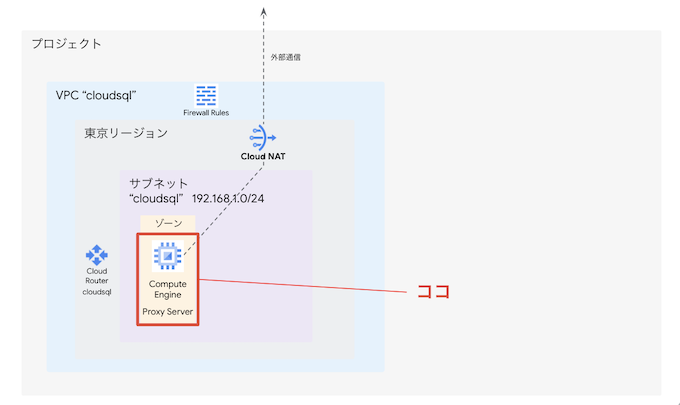
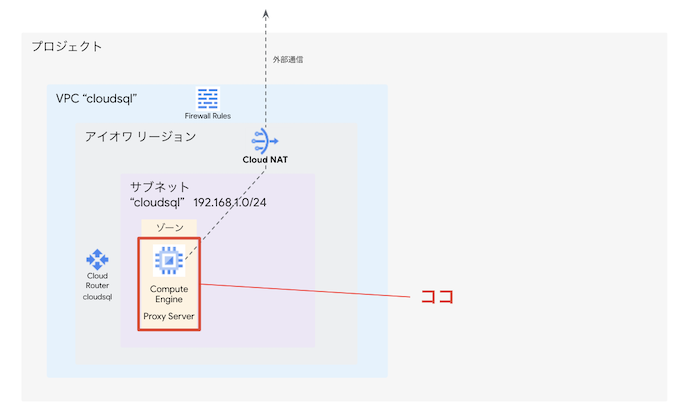
image ファイル差し替え、その他指摘事項対応

diff --git a/egg5-3/tutorial.md b/egg5-3/tutorial.md
@@ -47,14 +47,8 @@
 Cloud SQL インスタンスは gcloud CLI を使用して作成します。その前に gcloud CLI の設定を行います。
 以下のコマンドを Cloud Shell で実行し、プロジェクト ID を設定してください。
 
-```bash
-gcloud config set project {{project-id}}
-```
-
-続いて、環境変数 `GOOGLE_CLOUD_PROJECT` に、各自で利用しているプロジェクトの ID を格納しておきます。以下のコマンドを、Cloud Shell のターミナルで実行してください。
-
-```bash
-export GOOGLE_CLOUD_PROJECT=$(gcloud config list project --format "value(core.project)")
+```text
+gcloud config set project <あなたのプロジェクト ID>
 ```
 
 以下のコマンドで、正しく格納されているか確認してください。
@@ -186,6 +180,18 @@ Datastream → Cloud Storage → Cloud Pub/Sub という流れのパイプライ
 Cloud SQL にデータをインポートします。
 Git リポジトリに用意してある SQL ファイルを Cloud Storage 上にアップロードします。
 
+コマンドを実行するディレクトリに注意してください。
+テストアプリケーションのレポジトリのルートディレクトリにいることを念の為確認してください。
+```bash
+pwd
+```
+
+期待する戻り値は以下です。
+違う場合は適宜 cd コマンドで正しいディレクトリに移動してください。
+```terminal
+/home/<あなたのユーザー名>/cloudshell_open/egg-training-materials/egg5-3
+```
+
 次のコマンドで SQL ファイルの内容を確認できます。
 
 ```bash
@@ -272,6 +278,8 @@ SERVICE_ACCOUNT=$(gcloud iam service-accounts list --filter="displayName:Compute
  * BigQuery DataEditor: Dataflow Job の実行時の BigQuery テーブルへの書き込みに利用
  * BigQuery JobUser: Dataflow Job の実行時の BigQuery Job 実行に利用
 
+次のコマンドをコピーして、Cloud Shell で実行してください。
+
 ```
 for role in cloudsql.client logging.logWriter dataflow.worker datastream.viewer pubsub.editor pubsub.subscriber pubsub.viewer storage.objectViewer bigquery.dataEditor bigquery.jobUser
 do
@@ -311,6 +319,7 @@ gcloud compute routers nats create cloudsql \
 
 それでは、Cloud SQL Auth Proxy を実行する Compute Engine インスタンスを作成します。
 起動と同時に、スタートアップスクリプトとして `cloud_sql_proxy` を実行させます。 
+次のコマンドをコピーして、Cloud Shell で実行してください。
 
 ```
 gcloud compute instances create cloudsql-proxy \
@@ -469,7 +478,7 @@ gcloud compute instances describe cloudsql-proxy --zone us-central1-c --format="
 以下の内容で設定します。
 1. 接続プロファイルの名前：`gcs-cp`
 2. 接続プロファイル ID：`gcs-cp`
-3. リージョン：`us-central1 (アイオア)`
+3. リージョン：`us-central1 (アイオワ)`
 4. バケット名：`<GOOGLE_CLOUD_PROJECTと同名のバケット>` ※ 「参照」から選択
 5. 接続プロファイルのパス接頭辞：`/data`
 
@@ -577,6 +586,7 @@ BigQuery へのデータの連携は Dataflow Job で行います。
 Dataflow VM 間での通信を許可するファイアウォール ルールを作成します。このファイアウォール ルールは Dataflow Shuffle の通信に使います。
 
 Dataflow VM 用の、内向き通信の許可ルールを作成します。
+次のコマンドをコピーして、Cloud Shell で実行してください。
 
 ```
 gcloud compute firewall-rules create allow-dataflow-vm-ingress \
@@ -590,6 +600,7 @@ gcloud compute firewall-rules create allow-dataflow-vm-ingress \
 ```
 
 Dataflow VM 用の、外向き通信の許可ルールを作成します。
+次のコマンドをコピーして、Cloud Shell で実行してください。
 
 ```
 gcloud compute firewall-rules create allow-dataflow-vm-egress \
@@ -604,6 +615,7 @@ gcloud compute firewall-rules create allow-dataflow-vm-egress \
 
 Dataflow Job のデプロイは gcloud コマンドで実行します。
 Job の Template ファイルは事前に用意されているものを利用します。
+次のコマンドをコピーして、Cloud Shell で実行してください。
 
 ```
 gcloud beta dataflow flex-template run datastream-replication \
